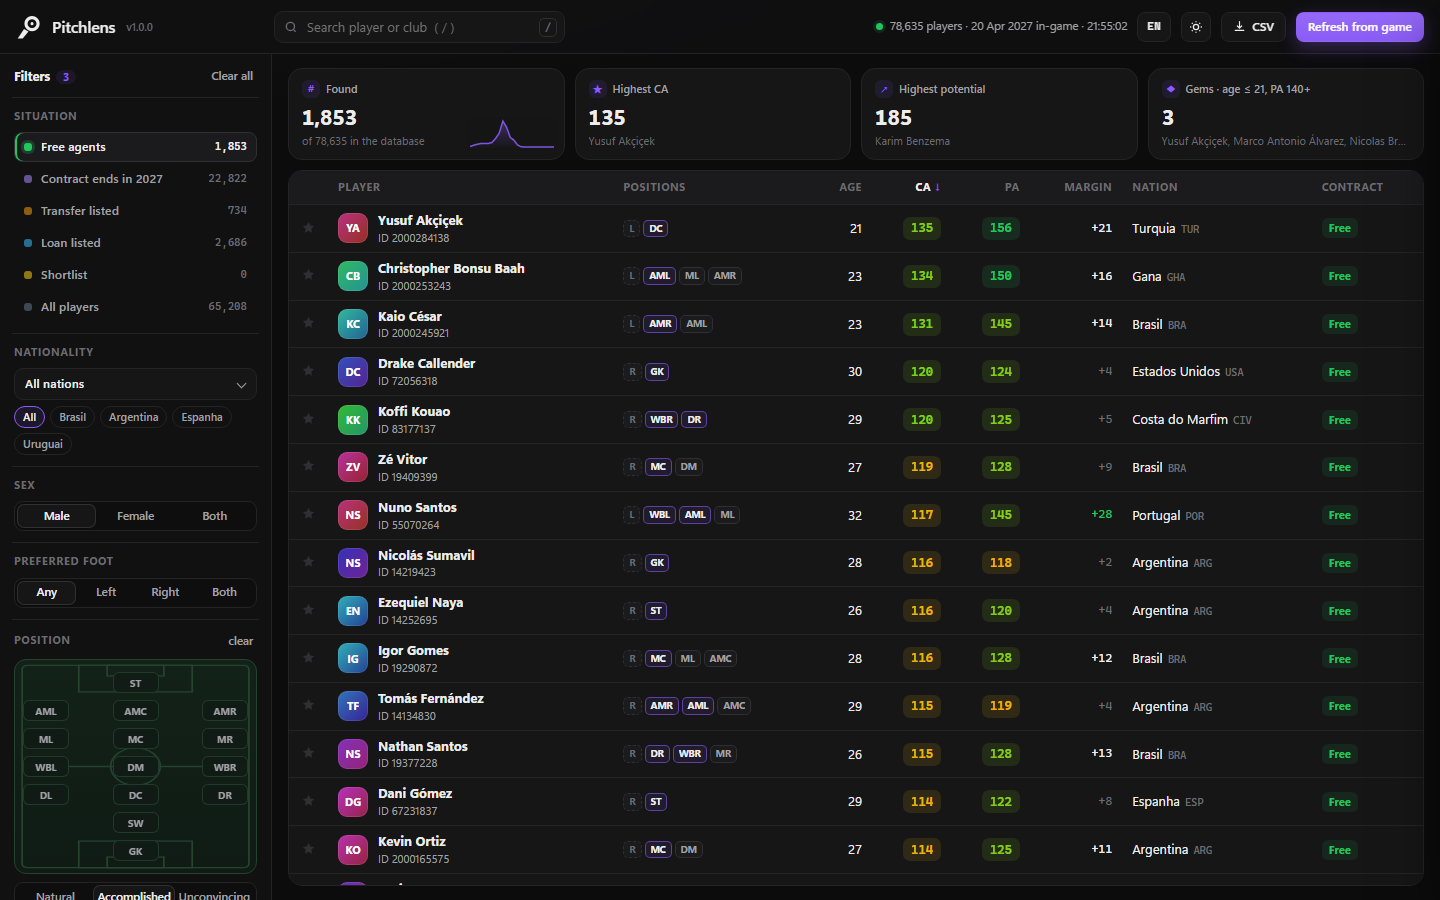
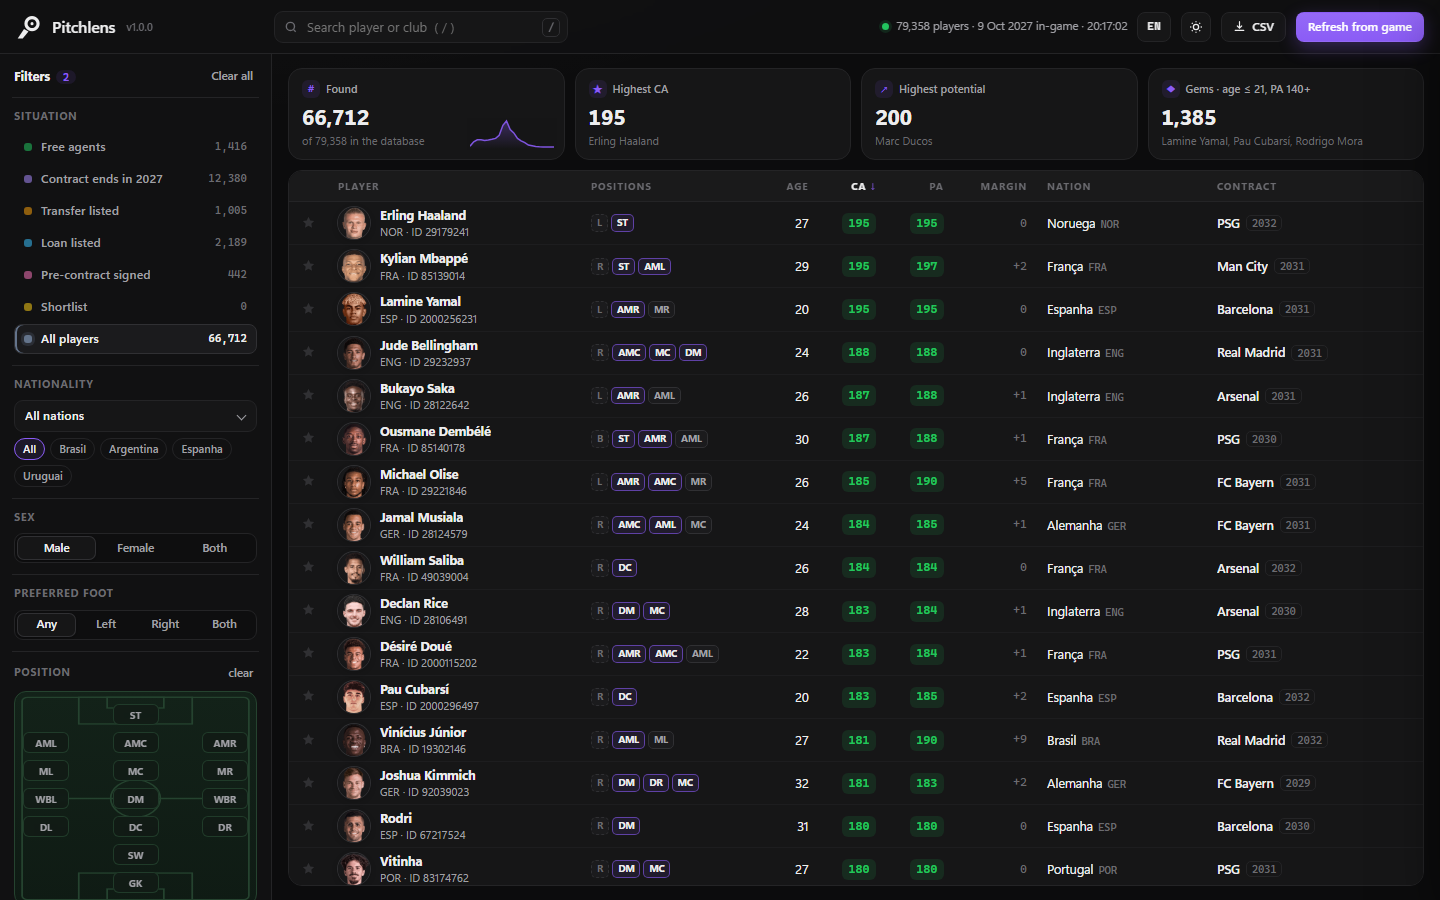
Prints novos do README e parametros ?sit= e ?q= na URL
Prints com fotos, pre-contratos e a tabela compacta; o script de prints usa ?sit= para mostrar todos os jogadores e os pre-contratos.

diff --git a/web/app.js b/web/app.js
@@ -338,9 +338,11 @@ document.addEventListener('keydown', e => {
   if (e.key === '/' && !['INPUT', 'SELECT'].includes(document.activeElement.tagName)) { e.preventDefault(); $('#q').focus(); }
 });
 
-// ---------- boot (URL params win: ?lang=en|pt&theme=dark|light&p=<uid>)
+// ---------- boot (URL params win: ?lang=en|pt&theme=dark|light&sit=<situation>&q=<search>&p=<uid>)
 if (URLP.get('lang')) F.lang = URLP.get('lang') === 'pt' ? 'pt' : 'en';
 if (!F.lang) F.lang = (navigator.language || 'en').toLowerCase().startsWith('pt') ? 'pt' : 'en';
+if (SIT.some(s => s[0] === URLP.get('sit'))) F.sit = URLP.get('sit');
+if (URLP.has('q')) F.q = URLP.get('q');
 if (URLP.get('theme')) F.theme = URLP.get('theme') === 'light' ? 'light' : 'dark';
 applyTheme(); applyLang(); sync(); setStatus(); render();
 load('/api/players');

diff --git a/tools/screenshots.py b/tools/screenshots.py
@@ -18,8 +18,8 @@ EDGE = next(p for p in (
     Path(os.environ.get('ProgramFiles', '')) / 'Microsoft/Edge/Application/msedge.exe') if p.is_file())
 
 SHOTS = [
-    ('overview-dark.png', 'lang=en&theme=dark'),
-    ('overview-light.png', 'lang=pt&theme=light'),
+    ('overview-dark.png', 'lang=en&theme=dark&sit=todos'),
+    ('overview-light.png', 'lang=pt&theme=light&sit=pre'),
     ('player-dark.png', f'lang=en&theme=dark&p={UID}'),
 ]
 

diff --git a/CLAUDE.md b/CLAUDE.md
@@ -14,7 +14,7 @@ esse arquivo atualizado quando mapear algo novo.
   rodando, só abre o navegador). Rotas: `/`, `/api/ping`, `/api/players`, `/api/refresh`, `/api/player?uid=`, `/api/face?uid=`,
   arquivos estáticos de `web/`. Erros vêm com `erro_code` (`not_running`, `no_save`, `access`, `read_error`).
 - `web/` — `index.html`, `style.css`, `app.js`, `i18n.js` (textos EN/PT, nomes de atributos e posições).
-  Sem build, sem CDN. Parâmetros de URL: `?lang=en|pt&theme=dark|light&p=<uid>`.
+  Sem build, sem CDN. Parâmetros de URL: `?lang=en|pt&theme=dark|light&sit=<situacao>&q=<busca>&p=<uid>`.
 - `tools/` — `memscan.py`, `find_attrs.py`, `modules.py` (pesquisa) e `screenshots.py` (prints do README via Edge headless).
 - `Pitchlens.exe` (fonte em `launcher/Pitchlens.cs`, C# 5 — o csc do .NET Framework não aceita sintaxe nova; build com `launcher\build.bat`) é a janela: WinForms + WebView2 (`runtime/`), liga `pythonw Pitchlens.pyw --server --port N`, chama `/api/quit` ao fechar e cria os atalhos na 1ª vez. Neste PC `.py/.pyw` não têm associação de arquivo e o usuário não quer ver cmd nem Edge.
 
